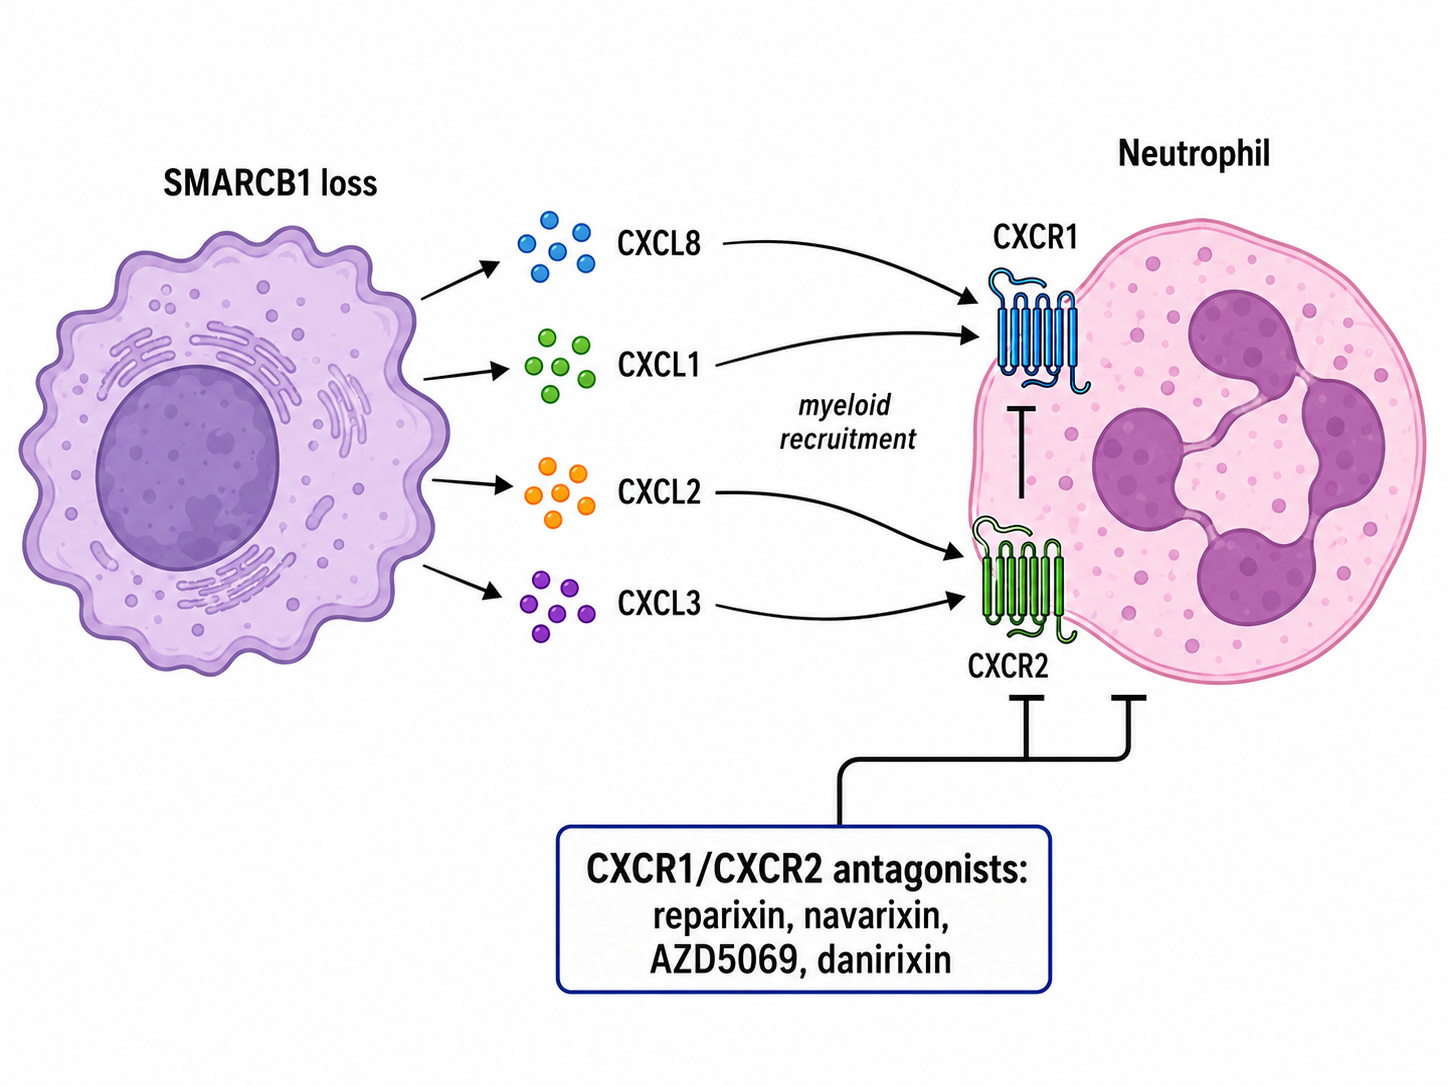
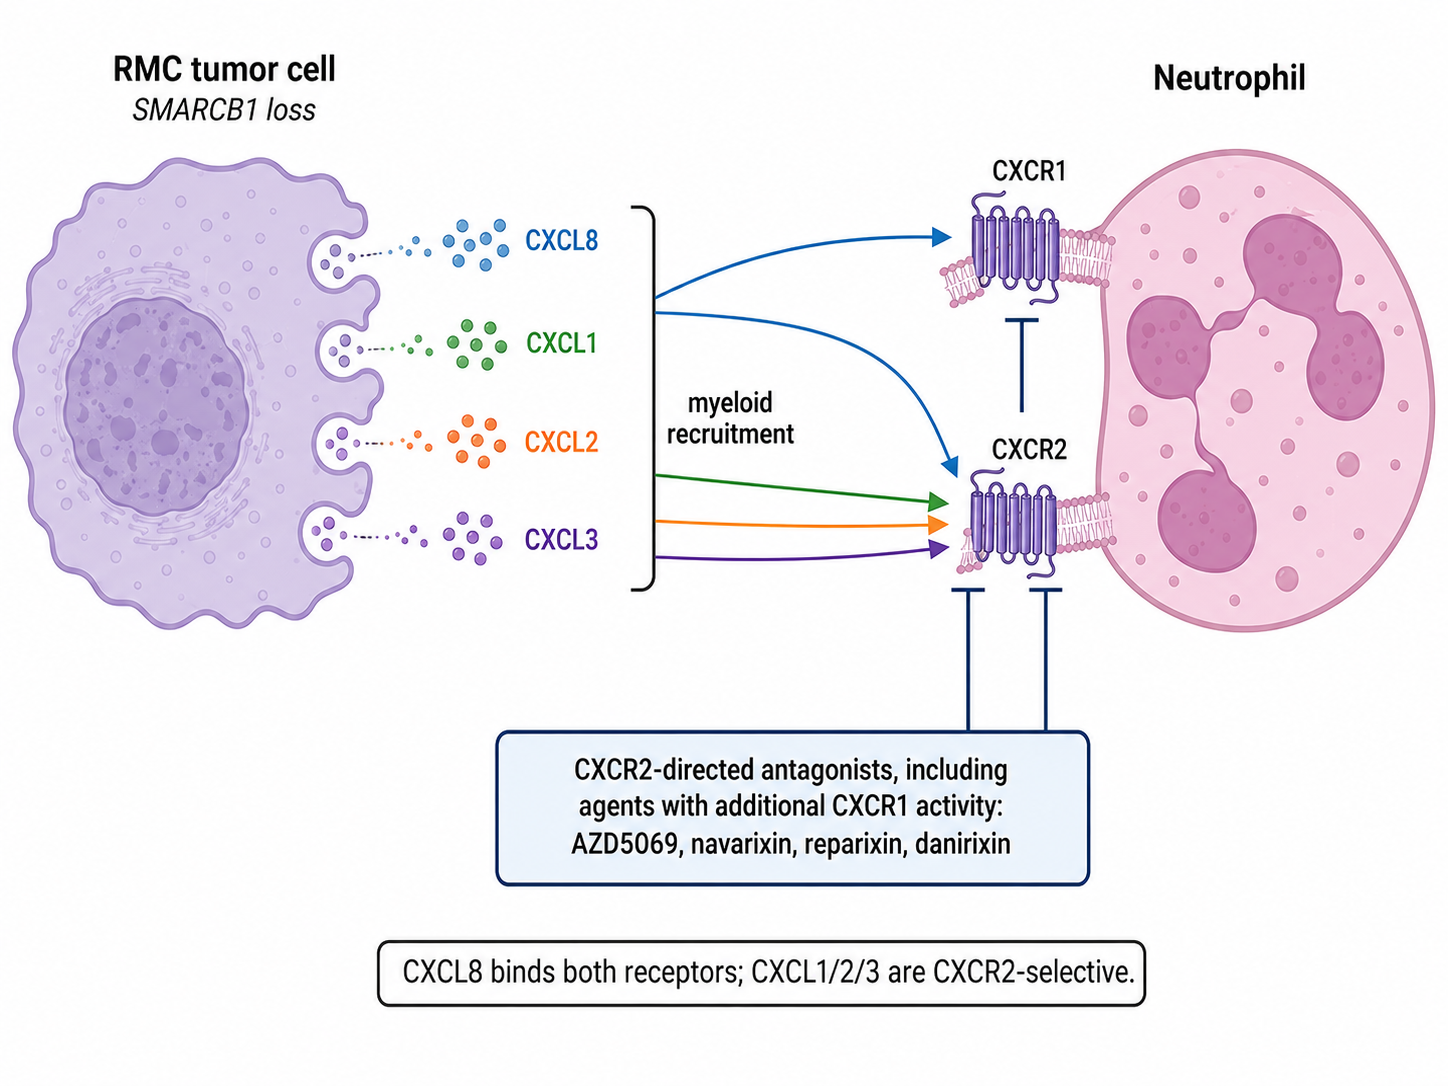
Figure 2C: verified regenerated schematic with the corrected ligand map
The drawn panel was biologically correct but was the only hand-drawn panel among
three generated ones. The replacement was checked arrow by arrow before use:
CXCL8 reaches both CXCR1 and CXCR2, CXCL1, CXCL2 and CXCL3 reach CXCR2 only,
both receptors sit in the neutrophil membrane rather than on the tumor cell, the
blockade acts on the receptors, and the drug label distinguishes CXCR2-directed
agents from those with additional CXCR1 activity.

45_prepare_panelC_images.py also had its source directory broken by the earlier
path refactor, which pointed it at the output folder rather than where the
schematics are dropped; it now defaults to the Downloads folder and honours
UVDP_SCHEMATIC_SRC.

Changed region(s): [[0.0, 0.0304, 0.9945, 0.942], [0.7769, 0.0608, 0.9012, 0.0912]]

diff --git a/code/pipeline/40_figure2_rmc_v29.py b/code/pipeline/40_figure2_rmc_v29.py
@@ -22,6 +22,7 @@ import matplotlib
 matplotlib.use('Agg')
 import matplotlib.pyplot as plt
 import matplotlib.gridspec as gridspec
+import matplotlib.image as mpimg
 import numpy as np
 import pandas as pd
 from matplotlib.patches import (FancyBboxPatch, FancyArrowPatch, Circle, Ellipse)
@@ -97,74 +98,15 @@ axB.legend(fontsize=7.4, frameon=False, loc='lower right')
 for s in ('top', 'right'):
     axB.spines[s].set_visible(False)
 
-# ---------------- C: mechanism, drawn so the receptor map is explicit -------
-# CXCL8 binds both CXCR1 and CXCR2; CXCL1, CXCL2 and CXCL3 are CXCR2-selective.
+# ---------------- C: mechanism schematic ------------------------------------
+# Checked arrow by arrow before use: CXCL8 reaches both receptors, CXCL1/2/3
+# reach CXCR2 only, and both receptors sit in the neutrophil membrane rather
+# than on the tumor cell.
 axC = fig.add_subplot(gs[0, 2])
-axC.set_xlim(0, 10); axC.set_ylim(0, 10); axC.axis('off')
+axC.imshow(mpimg.imread(str(paths.PANEL_C / 'PanelC_RMC.png')))
+axC.axis('off')
 axC.set_title('C. Proposed mechanism and point of blockade', fontsize=9.3,
-              weight='bold', loc='left', pad=12)
-
-axC.add_patch(Ellipse((2.05, 6.9), 3.5, 3.5, facecolor='#eaf2f8',
-                      edgecolor='#1f4e79', lw=1.4))
-axC.text(2.05, 8.05, 'RMC tumor cell', ha='center', fontsize=8.2,
-         weight='bold', color='#1f4e79')
-axC.text(2.05, 7.55, 'SMARCB1 loss', ha='center', fontsize=7.5, style='italic',
-         color='#c0392b')
-LIG = [('CXCL8', 7.05, '#1a3a5c'), ('CXCL1', 6.55, '#2e86c1'),
-       ('CXCL2', 6.05, '#2e86c1'), ('CXCL3', 5.55, '#2e86c1')]
-for name, y, col in LIG:
-    axC.text(2.05, y, name, ha='center', va='center', fontsize=7.4,
-             weight='bold', color=col, family='monospace')
-
-# neutrophil with the two receptors
-axC.add_patch(Circle((7.9, 6.0), 1.75, facecolor='#fdf2e9', edgecolor='#b9770e',
-                     lw=1.4))
-axC.text(7.9, 8.05, 'neutrophil', ha='center', fontsize=8.2, weight='bold',
-         color='#b9770e')
-rec = {}
-for lab, y in (('CXCR1', 6.85), ('CXCR2', 5.35)):
-    px = 7.9 - 1.75 * 0.62
-    axC.add_patch(Circle((px, y), 0.30, facecolor='#1a3a5c', edgecolor='white',
-                         lw=1.1, zorder=6))
-    axC.text(px + 0.42, y, lab, ha='left', va='center', fontsize=7.6,
-             weight='bold', color='#1a3a5c', zorder=7)
-    rec[lab] = (px, y)
-axC.text(8.15, 5.9, 'myeloid\nrecruitment', ha='center', va='center',
-         fontsize=7.2, color='#7e5109', style='italic')
-
-# ligand -> receptor arrows, drawn one per real interaction
-ARROWS = [('CXCL8', 'CXCR1', '#1a3a5c'), ('CXCL8', 'CXCR2', '#1a3a5c'),
-          ('CXCL1', 'CXCR2', '#2e86c1'), ('CXCL2', 'CXCR2', '#2e86c1'),
-          ('CXCL3', 'CXCR2', '#2e86c1')]
-ly = {n: y for n, y, _ in LIG}
-for lig, receptor, col in ARROWS:
-    x0, y0 = 3.5, ly[lig]
-    x1, y1 = rec[receptor]
-    axC.add_patch(FancyArrowPatch((x0, y0), (x1 - 0.34, y1),
-                                  connectionstyle='arc3,rad=0.16',
-                                  arrowstyle='-|>', mutation_scale=9, lw=1.0,
-                                  color=col, alpha=0.85))
-axC.text(5.2, 7.75, 'CXCL8 binds both receptors;\nCXCL1/2/3 are CXCR2-selective',
-         ha='center', fontsize=6.6, style='italic', color='#555')
-
-# blockade
-axC.add_patch(FancyBboxPatch((0.15, 1.75), 5.6, 1.35,
-                             boxstyle='round,pad=0.10', facecolor='#e8f6ef',
-                             edgecolor='#1e8449', lw=1.3))
-axC.text(2.95, 2.70, 'CXCR1- and/or CXCR2 antagonists', ha='center',
-         fontsize=8.0, weight='bold', color='#1e8449')
-axC.text(2.95, 2.14, 'reparixin \u00b7 navarixin \u00b7 AZD5069 \u00b7 danirixin',
-         ha='center', fontsize=6.9, color='#145a32')
-for lab in ('CXCR1', 'CXCR2'):
-    x1, y1 = rec[lab]
-    axC.add_patch(FancyArrowPatch((5.75, 2.6), (x1 - 0.30, y1 - 0.34),
-                                  connectionstyle='arc3,rad=-0.22',
-                                  arrowstyle='-[', mutation_scale=7, lw=1.5,
-                                  color='#1e8449'))
-axC.text(5.0, 0.95,
-         'The mechanism runs through the myeloid compartment, so a tumor-cell\n'
-         'monoculture cannot test in either direction.',
-         ha='center', fontsize=6.9, style='italic', color='#555')
+              weight='bold', loc='left')
 
 out = FIG / 'Figure2_RMC.png'
 plt.savefig(out, bbox_inches='tight')

diff --git a/code/pipeline/45_prepare_panelC_images.py b/code/pipeline/45_prepare_panelC_images.py
@@ -17,6 +17,7 @@ celecoxib.
 
 Writes: figures/panelC/<name>.png
 """
+import os
 import shutil
 import sys
 from pathlib import Path
@@ -27,12 +28,17 @@ from PIL import Image, ImageDraw
 
 sys.stdout.reconfigure(encoding='utf-8')
 REPO = Path(__file__).resolve().parents[2]
-SRC = paths.OUTPUT
+# generated schematics are dropped here by the author before staging;
+# override with UVDP_SCHEMATIC_SRC if they live elsewhere
+SRC = Path(os.environ.get('UVDP_SCHEMATIC_SRC',
+                          Path.home() / 'Downloads'))
 OUT = paths.PANEL_C
 OUT.mkdir(parents=True, exist_ok=True)
 
 SOURCES = {
-    'RMC': 'ChatGPT Image Aug 30, 2026, 06_24_33 PM.png',
+    # regenerated 31 Aug after the ligand-receptor mapping was corrected:
+    # CXCL8 binds both receptors, CXCL1/2/3 are CXCR2-selective
+    'RMC': 'ChatGPT Image Aug 31, 2026, 06_18_41 AM.png',
     'SarcUC': 'ChatGPT Image Aug 30, 2026, 06_28_51 PM.png',
     'SCBC': 'ChatGPT Image Aug 30, 2026, 06_30_09 PM.png',
 }
